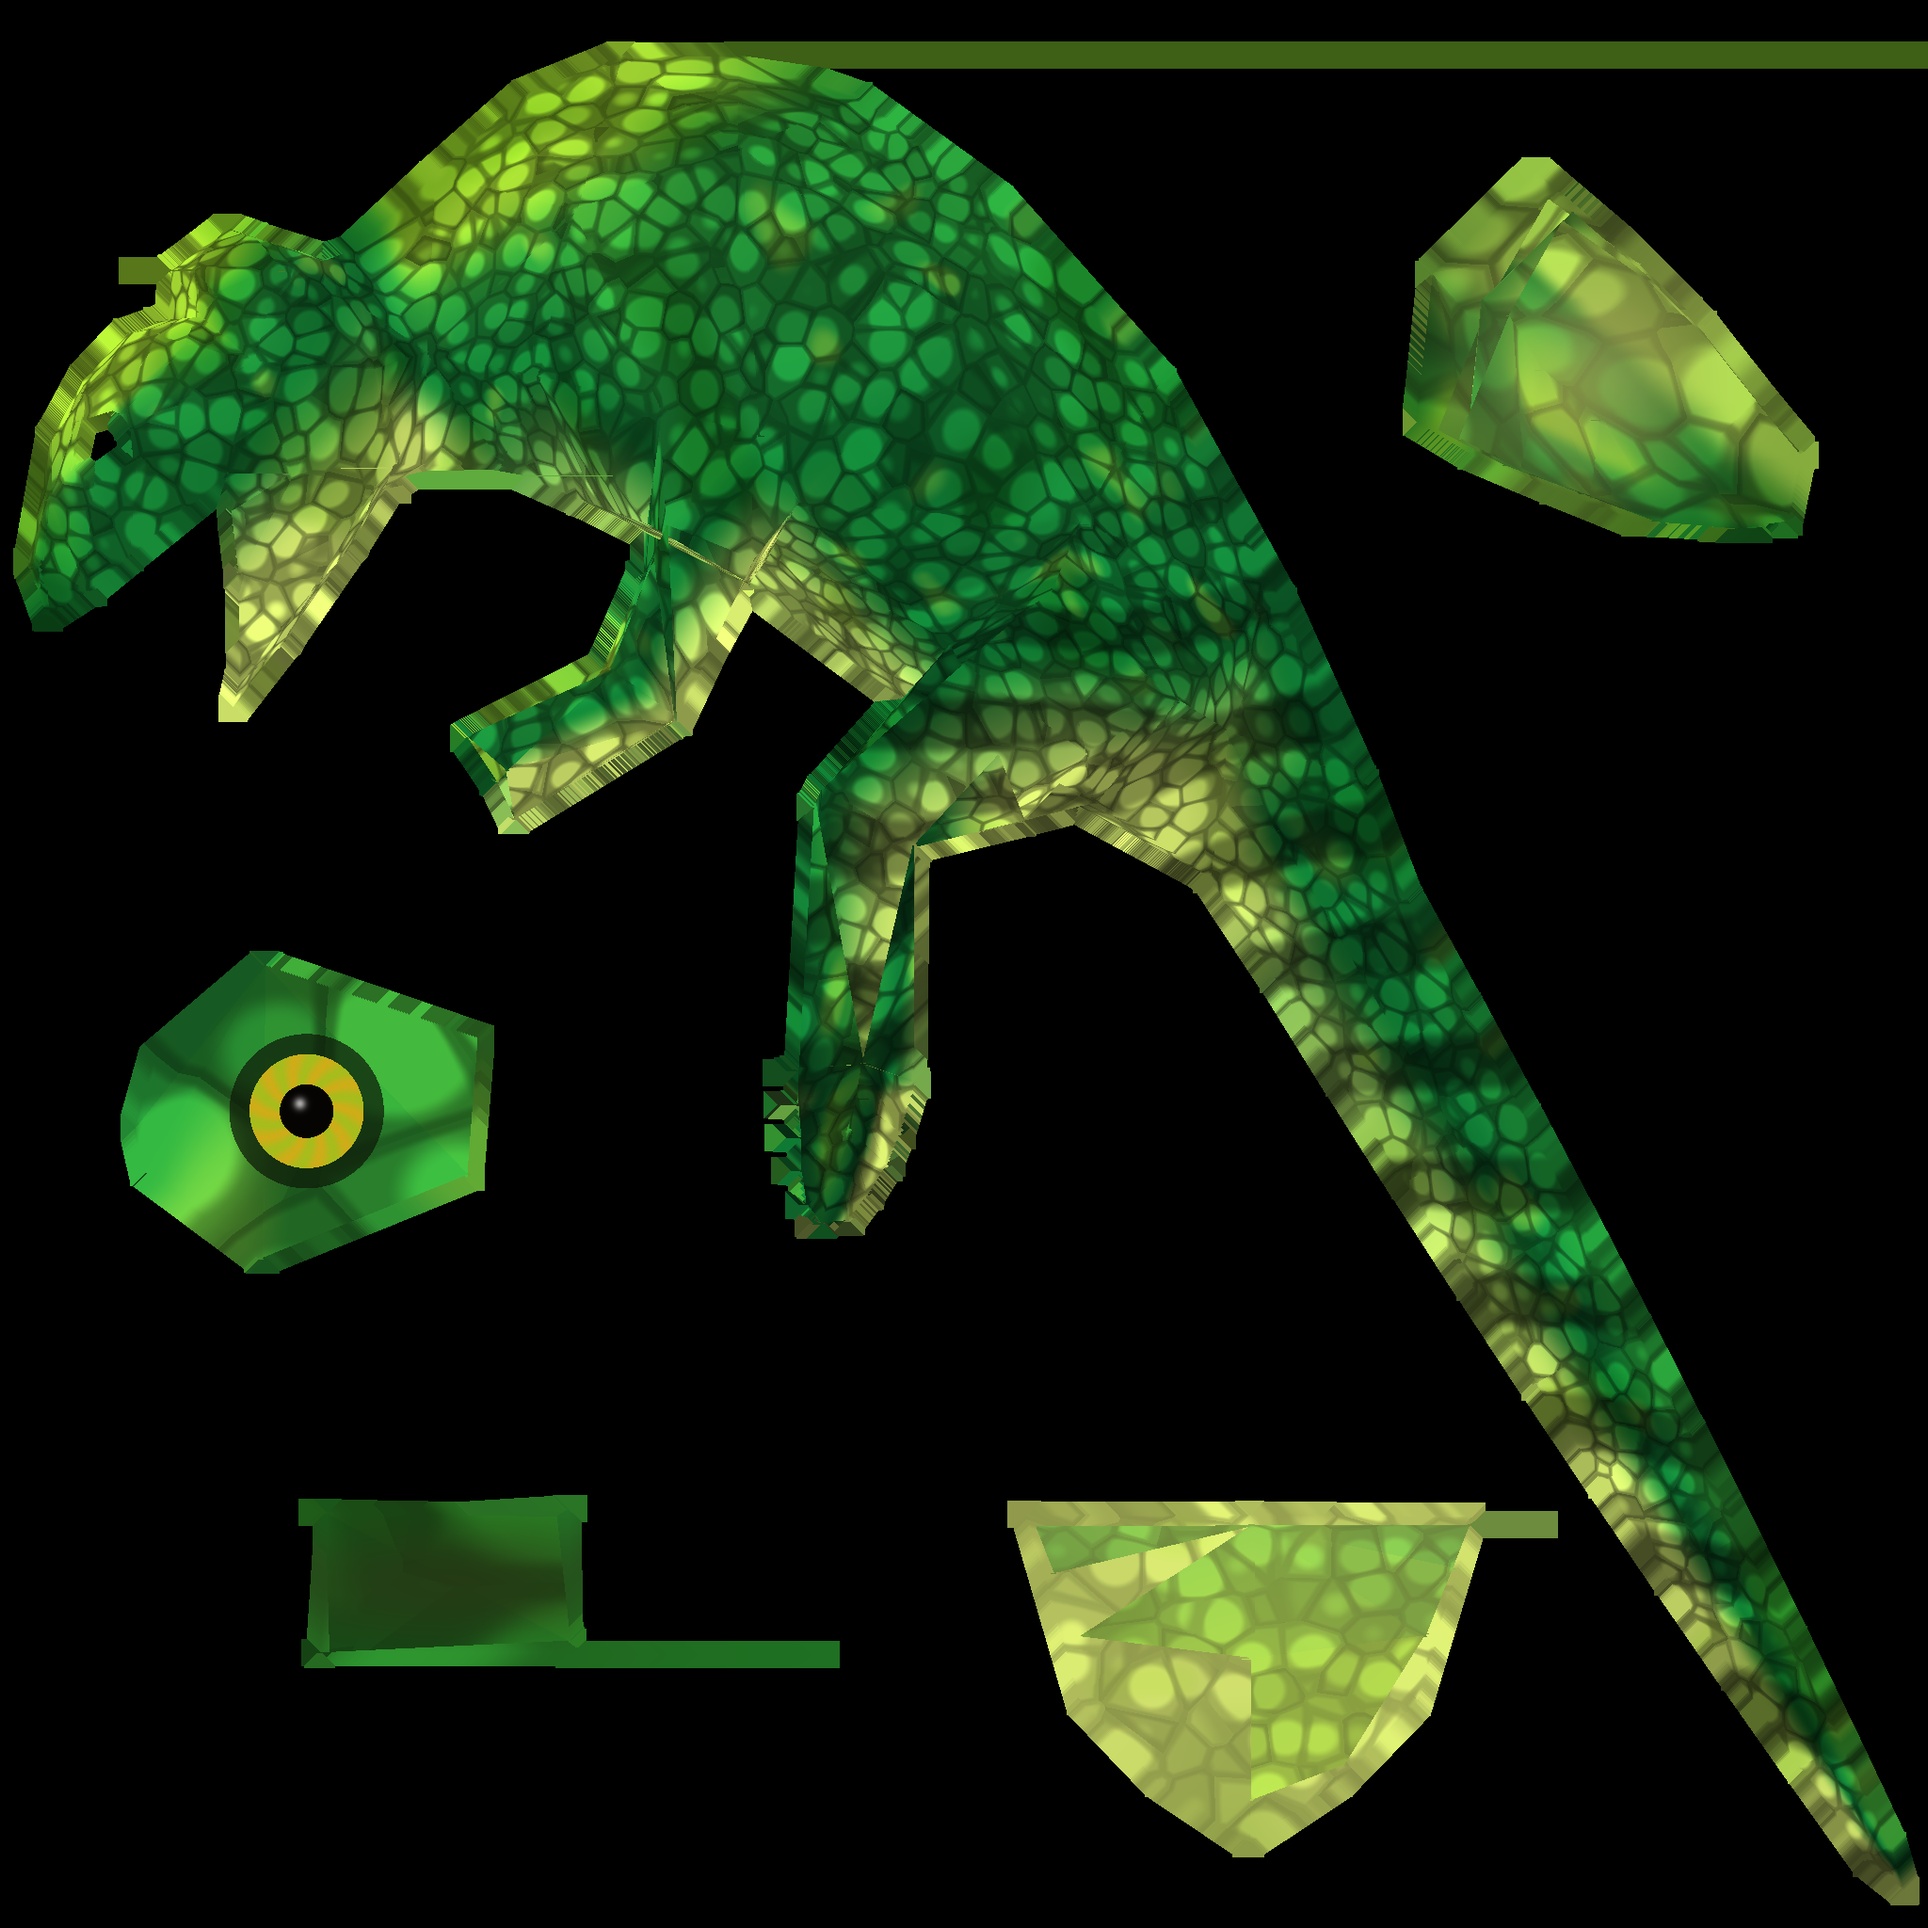
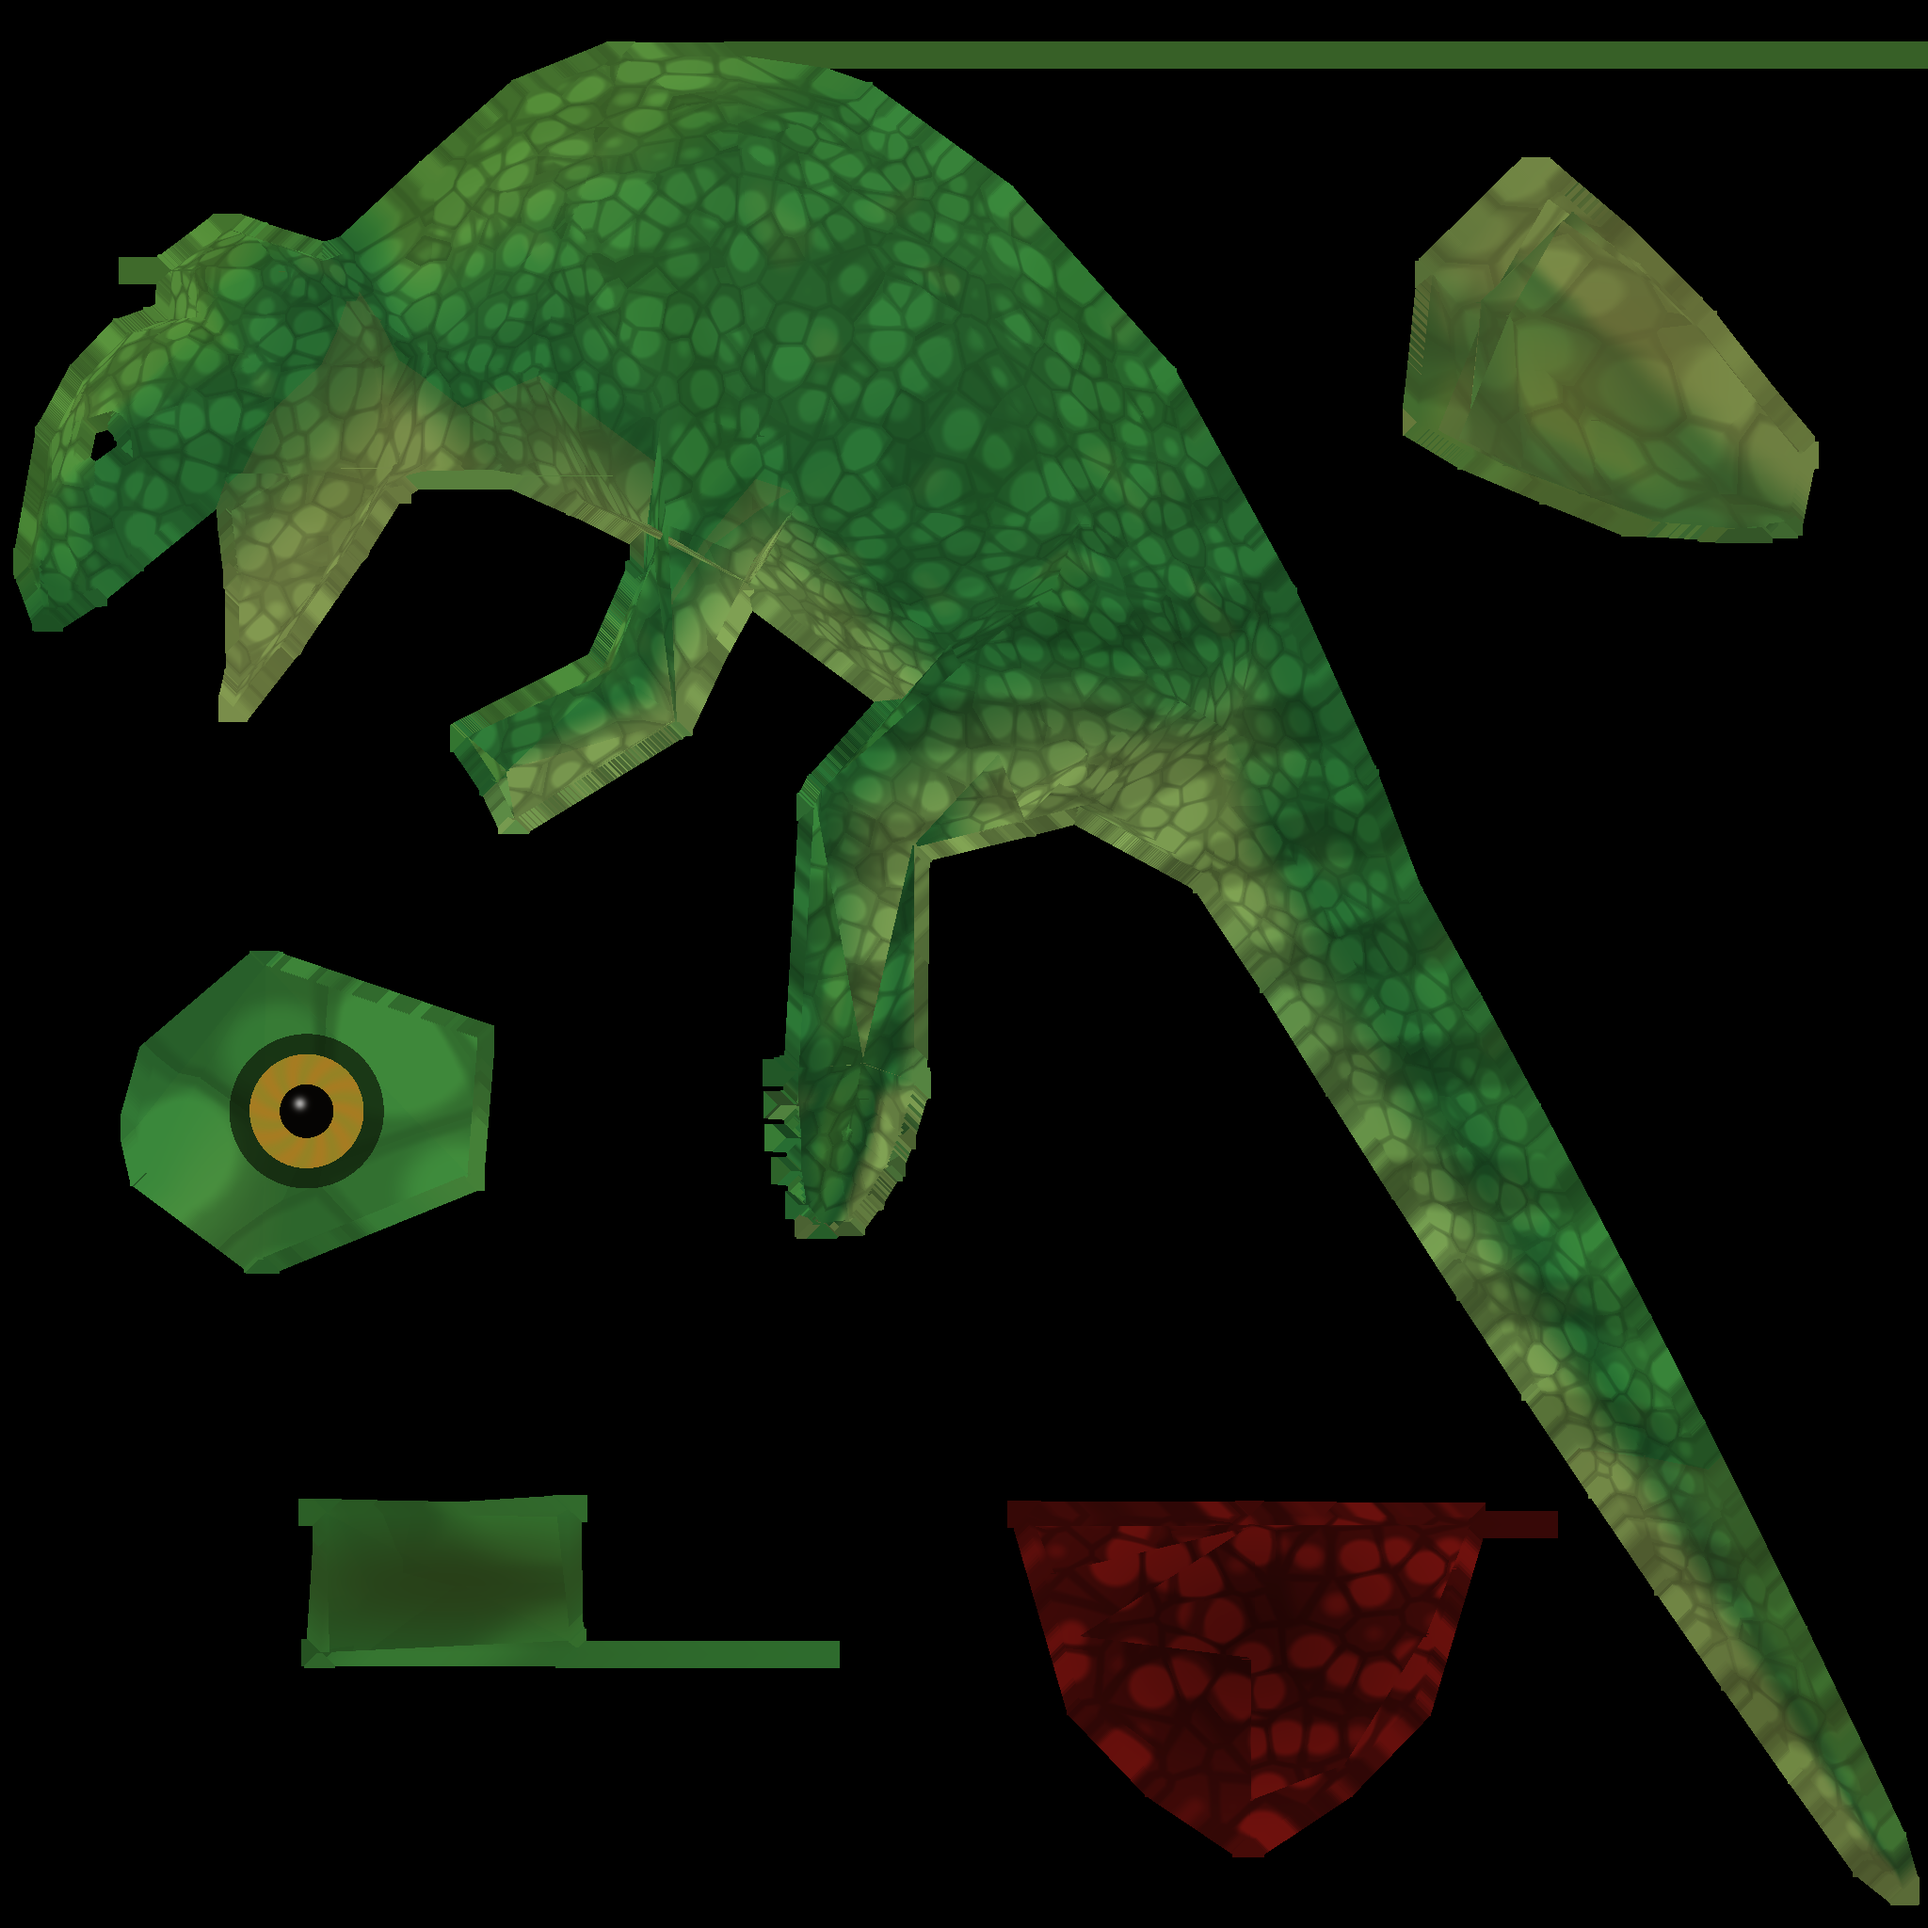
Quiet the green and paint the mouth a dark red.
The scale pattern stays. Body colors sit closer together, the mouth cavity is dark red, and the feet, throat, and tail tip shift a little away from the main green.

diff --git a/src/main.js b/src/main.js
@@ -143,7 +143,7 @@ function setSources(info, textureState = "loading") {
   fileLine.innerHTML = `Loaded <code>${info.sourceFile}</code> · three.js r${THREE.REVISION}`;
   const textureNote =
     textureState === "loaded"
-      ? `The skin is a 2048² green chameleon map (${info.textureFile}) with matching normal and roughness maps, in place of the original 256² ${info.sourceTexture}.`
+      ? `The skin is a 2048² green chameleon map (${info.textureFile}) with a dark red mouth, quieter color on the feet, throat, and tail tip, and matching normal and roughness maps, in place of the original 256² ${info.sourceTexture}.`
       : textureState === "missing"
         ? `The chameleon texture ${info.textureFile} could not be loaded, so the body uses a flat green.`
         : `The chameleon skin texture ${info.textureFile} is loading.`;

diff --git a/scripts/make-chameleon-texture.py b/scripts/make-chameleon-texture.py
@@ -256,29 +256,31 @@ def shade(position, normal, region):
     along = (z - z_min) / max(z_max - z_min, 1e-6)
     up = norms[:, 2]
 
-    belly = np.array([0.73, 0.80, 0.38], np.float32)
-    flank = np.array([0.05, 0.42, 0.16], np.float32)
-    back = np.array([0.12, 0.55, 0.18], np.float32)
-    crest = np.array([0.78, 0.84, 0.18], np.float32)
-    leaf = np.array([0.40, 0.72, 0.16], np.float32)
-    teal = np.array([0.05, 0.48, 0.38], np.float32)
+    # Palette sits closer together than the first pass so the greens are quieter,
+    # while the scale height below still draws the hide.
+    belly = np.array([0.46, 0.58, 0.30], np.float32)
+    flank = np.array([0.14, 0.40, 0.18], np.float32)
+    back = np.array([0.20, 0.48, 0.20], np.float32)
+    crest = np.array([0.50, 0.58, 0.24], np.float32)
+    leaf = np.array([0.32, 0.52, 0.20], np.float32)
+    teal = np.array([0.16, 0.44, 0.32], np.float32)
 
     color = mix(belly, flank, smoothstep(-0.75, 0.05, up)[:, None])
     color = mix(color, back, smoothstep(0.0, 0.62, up)[:, None])
     crest_amount = smoothstep(0.42, 0.92, up) * (0.35 + 0.65 * smoothstep(0.35, 0.85, along))
-    color = mix(color, crest, (crest_amount * 0.82)[:, None])
-    color = mix(color, leaf, (smoothstep(0.55, 0.9, along) * smoothstep(-0.2, 0.7, up) * 0.28)[:, None])
+    color = mix(color, crest, (crest_amount * 0.38)[:, None])
+    color = mix(color, leaf, (smoothstep(0.55, 0.9, along) * smoothstep(-0.2, 0.7, up) * 0.16)[:, None])
     side = (1.0 - np.abs(up)) * smoothstep(-0.2, 0.35, up)
-    color = mix(color, teal, (side * 0.22)[:, None])
+    color = mix(color, teal, (side * 0.10)[:, None])
 
     mottled = value_noise(points * 0.035 + 4.0)
     fine = value_noise(points * 0.08 + 18.0)
-    color = mix(color, color * np.array([0.62, 0.78, 0.48], np.float32), (smoothstep(0.58, 0.86, mottled) * 0.55)[:, None])
-    color = mix(color, np.array([0.62, 0.78, 0.22], np.float32), (smoothstep(0.72, 0.92, fine) * 0.42)[:, None])
+    color = mix(color, color * np.array([0.78, 0.86, 0.70], np.float32), (smoothstep(0.58, 0.86, mottled) * 0.28)[:, None])
+    color = mix(color, np.array([0.46, 0.58, 0.26], np.float32), (smoothstep(0.72, 0.92, fine) * 0.18)[:, None])
 
     band = 0.5 + 0.5 * np.sin(z * 0.21 + value_noise(points * 0.02) * 1.4)
     tail = smoothstep(70.0, -20.0, z) * smoothstep(0.42, 0.78, band)
-    color *= (1.0 - 0.42 * tail)[:, None]
+    color *= (1.0 - 0.20 * tail)[:, None]
 
     nearest, second, owner = worley(points, CELL)
     radius = 0.34 + 0.16 * hash_unit(owner, 0x51F0C5B1)
@@ -287,11 +289,11 @@ def shade(position, normal, region):
     crack = smoothstep(0.05, 0.16, (second - nearest) / CELL)
     height = (1.0 - edge) * (0.55 + 0.45 * crack)
     height = height ** 1.15
-    scale_tint = 0.82 + 0.36 * hash_unit(owner, 0xC2B2AE35)
-    color *= (0.74 + 0.38 * height)[:, None] * scale_tint[:, None]
-    color *= (1.0 - 0.22 * (1.0 - crack))[:, None]
+    scale_tint = 0.92 + 0.16 * hash_unit(owner, 0xC2B2AE35)
+    color *= (0.86 + 0.20 * height)[:, None] * scale_tint[:, None]
+    color *= (1.0 - 0.10 * (1.0 - crack))[:, None]
 
-    # Feet share one chart. Keep them greener and a little duller, with a pale pad.
+    # Feet share one chart. A muted olive, with a warmer pad, still scaled.
     foot = regions == FEET
     if np.any(foot):
         fu = xs[foot] / (SIZE - 1)
@@ -299,10 +301,29 @@ def shade(position, normal, region):
         fu = (fu - fu.mean()) / max(fu.std(), 1e-4)
         fv = (fv - fv.mean()) / max(fv.std(), 1e-4)
         pad = np.exp(-0.5 * (fu * fu + fv * fv))
-        color[foot] = mix(color[foot] * np.array([0.72, 0.86, 0.62], np.float32), np.array([0.86, 0.84, 0.46], np.float32), pad[:, None] * 0.55)
+        color[foot] = mix(color[foot], np.array([0.36, 0.34, 0.16], np.float32), 0.32)
+        color[foot] = mix(color[foot], np.array([0.50, 0.42, 0.22], np.float32), pad[:, None] * 0.35)
 
+    # The lower throat on the body chart is the outside of the jaw.
+    throat = (regions == BODY) & (along > 0.70) & (up < -0.05)
+    color[throat] = mix(color[throat], np.array([0.48, 0.40, 0.22], np.float32), 0.22)
+    tip = (regions == BODY) & (along < 0.16)
+    color[tip] = mix(color[tip], np.array([0.34, 0.28, 0.14], np.float32), 0.22)
+
+    # Jaw chart is the mouth cavity. Both the roof and the inner lip share it,
+    # so the whole island is a dark red that still follows the scale height.
     jaw = regions == JAW
-    color[jaw] = mix(color[jaw], np.array([0.80, 0.84, 0.42], np.float32), 0.45)
+    mouth = np.zeros(points.shape[0], np.float32)
+    if np.any(jaw):
+        ju = xs[jaw].astype(np.float32) / (SIZE - 1)
+        jv = 1.0 - ys[jaw].astype(np.float32) / (SIZE - 1)
+        ju = (ju - ju.mean()) / max(float(ju.std()), 1e-4)
+        jv = (jv - jv.mean()) / max(float(jv.std()), 1e-4)
+        depth = np.exp(-0.35 * (ju * ju + jv * jv))
+        tone = (0.58 + 0.42 * height[jaw]) * (0.80 + 0.20 * crack[jaw])
+        tone = tone * (0.62 + 0.38 * (1.0 - depth))
+        color[jaw] = np.array([0.46, 0.07, 0.055], np.float32) * tone[:, None]
+        mouth[jaw] = 1.0
 
     snout = regions == SNOUT
     if np.any(snout):
@@ -323,9 +344,9 @@ def shade(position, normal, region):
         dv = (ev - cv) / radius
         radial = np.sqrt(du * du + dv * dv)
         lid = color[eye]
-        iris = np.array([0.95, 0.62, 0.08], np.float32)
+        iris = np.array([0.72, 0.46, 0.12], np.float32)
         streak = 0.5 + 0.5 * np.sin(np.arctan2(dv, du) * 10.0 + radial * 18.0)
-        iris = mix(iris, np.array([0.55, 0.78, 0.12], np.float32), (0.35 + 0.4 * streak)[:, None])
+        iris = mix(iris, np.array([0.48, 0.55, 0.16], np.float32), (0.28 + 0.28 * streak)[:, None])
         pupil = radial < 0.16
         iris_band = (radial >= 0.16) & (radial < 0.34)
         rim = (radial >= 0.34) & (radial < 0.46)
@@ -342,10 +363,12 @@ def shade(position, normal, region):
     out_color = np.zeros((SIZE, SIZE, 3), np.float32)
     out_height = np.zeros((SIZE, SIZE), np.float32)
     out_gloss = np.zeros((SIZE, SIZE), np.float32)
+    out_mouth = np.zeros((SIZE, SIZE), np.float32)
     out_color[ys, xs] = np.clip(color, 0, 1)
     out_height[ys, xs] = height
     out_gloss[ys, xs] = gloss
-    return out_color, out_height, out_gloss, mask
+    out_mouth[ys, xs] = mouth
+    return out_color, out_height, out_gloss, out_mouth, mask
 
 
 def dilate(color, height, mask, iterations):
@@ -384,12 +407,12 @@ def normals_from_height(height, mask):
     return encoded
 
 
-def roughness_from_height(height, gloss, mask):
+def roughness_from_height(height, gloss, mouth, mask):
     rough = np.full((SIZE, SIZE), np.float32(0.0))
     # Satin scales: raised centers are a little smoother than the cracks.
     rough[mask] = np.clip(0.82 - height[mask] * 0.22, 0.52, 0.9)
-    # Only the iris and pupil are glossy. The lid stays as matte as the skin,
-    # otherwise a single low-poly facet next to the eye blows out to white.
+    # The mouth is a bit wetter than the hide. The iris stays the glossy part.
+    rough[mouth > 0.5] = np.float32(0.38)
     rough[gloss > 0.5] = np.float32(0.18)
     return rough
 
@@ -417,10 +440,10 @@ def main():
     labels = classify_islands(faces)
     print("region counts", {int(k): int((labels == k).sum()) for k in np.unique(labels)})
     position, normal, region = rasterize(faces, labels, SIZE)
-    color, height, gloss, mask = shade(position, normal, region)
+    color, height, gloss, mouth, mask = shade(position, normal, region)
     color, height, mask = dilate(color, height, mask, DILATE)
     normal_map = normals_from_height(height, mask)
-    rough = roughness_from_height(height, gloss, mask)
+    rough = roughness_from_height(height, gloss, mouth, mask)
     out = ROOT / "public" / "models"
     save_rgb(out / "LIZARD_M.png", color)
     save_rgb(out / "LIZARD_M_normal.png", normal_map)
